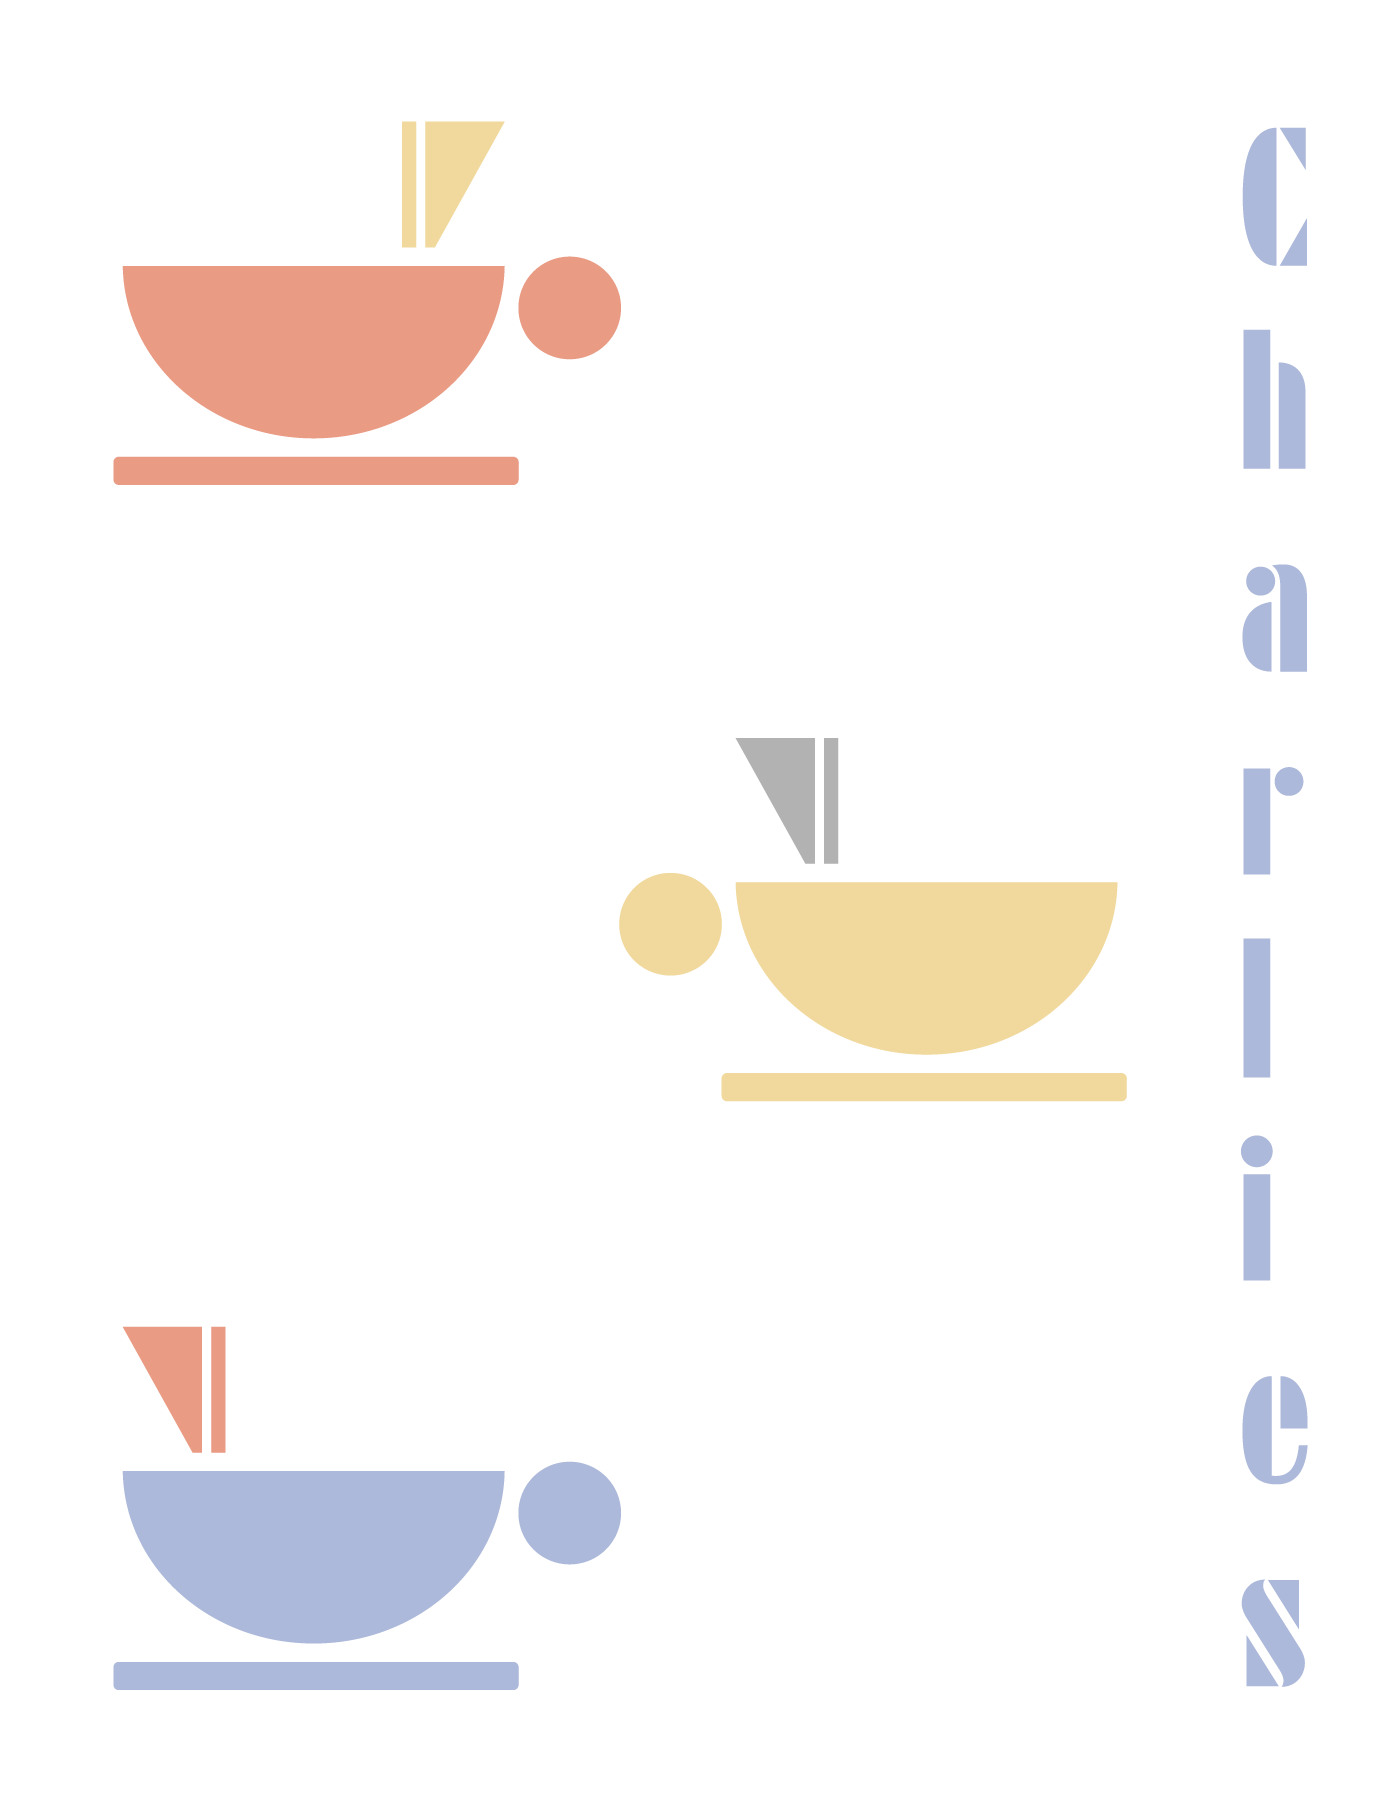
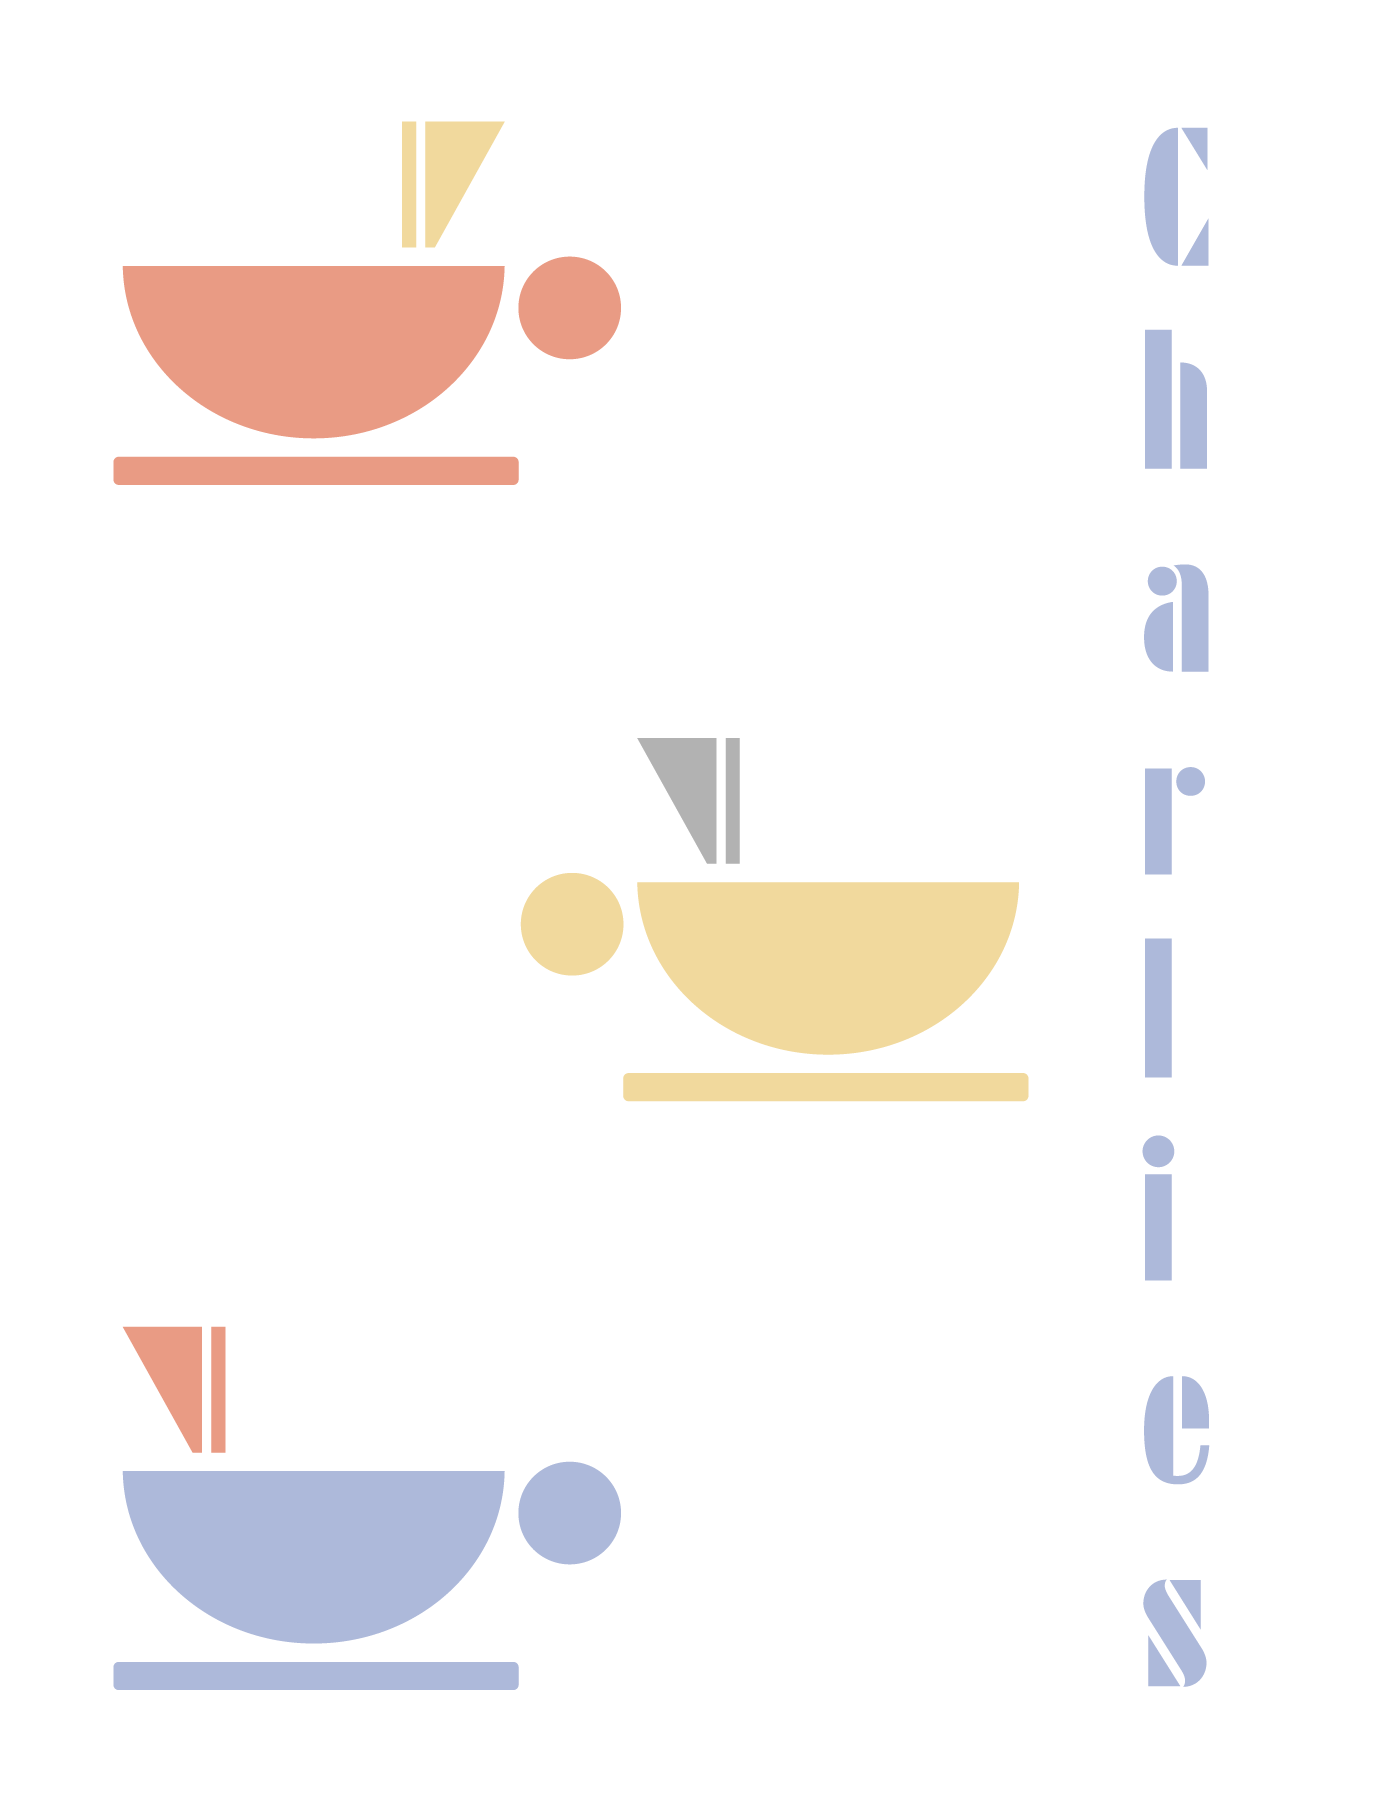
add images

diff --git a/Charlie's Website/css/stil.css b/Charlie's Website/css/stil.css
@@ -14,11 +14,15 @@ body {
     padding: 5%;
     background-color: antiquewhite;
     text-align: left;
+    background-image: url("img/Bauhaus-Kaffee1.png");
     
 }
 img.charlies{
     position: absolute;
     padding-right: 8%;
+    max-width: 100%;
+    display: block;
+    margin: 0 auto 0 auto;
 }
 h1{
     text-align: left;
